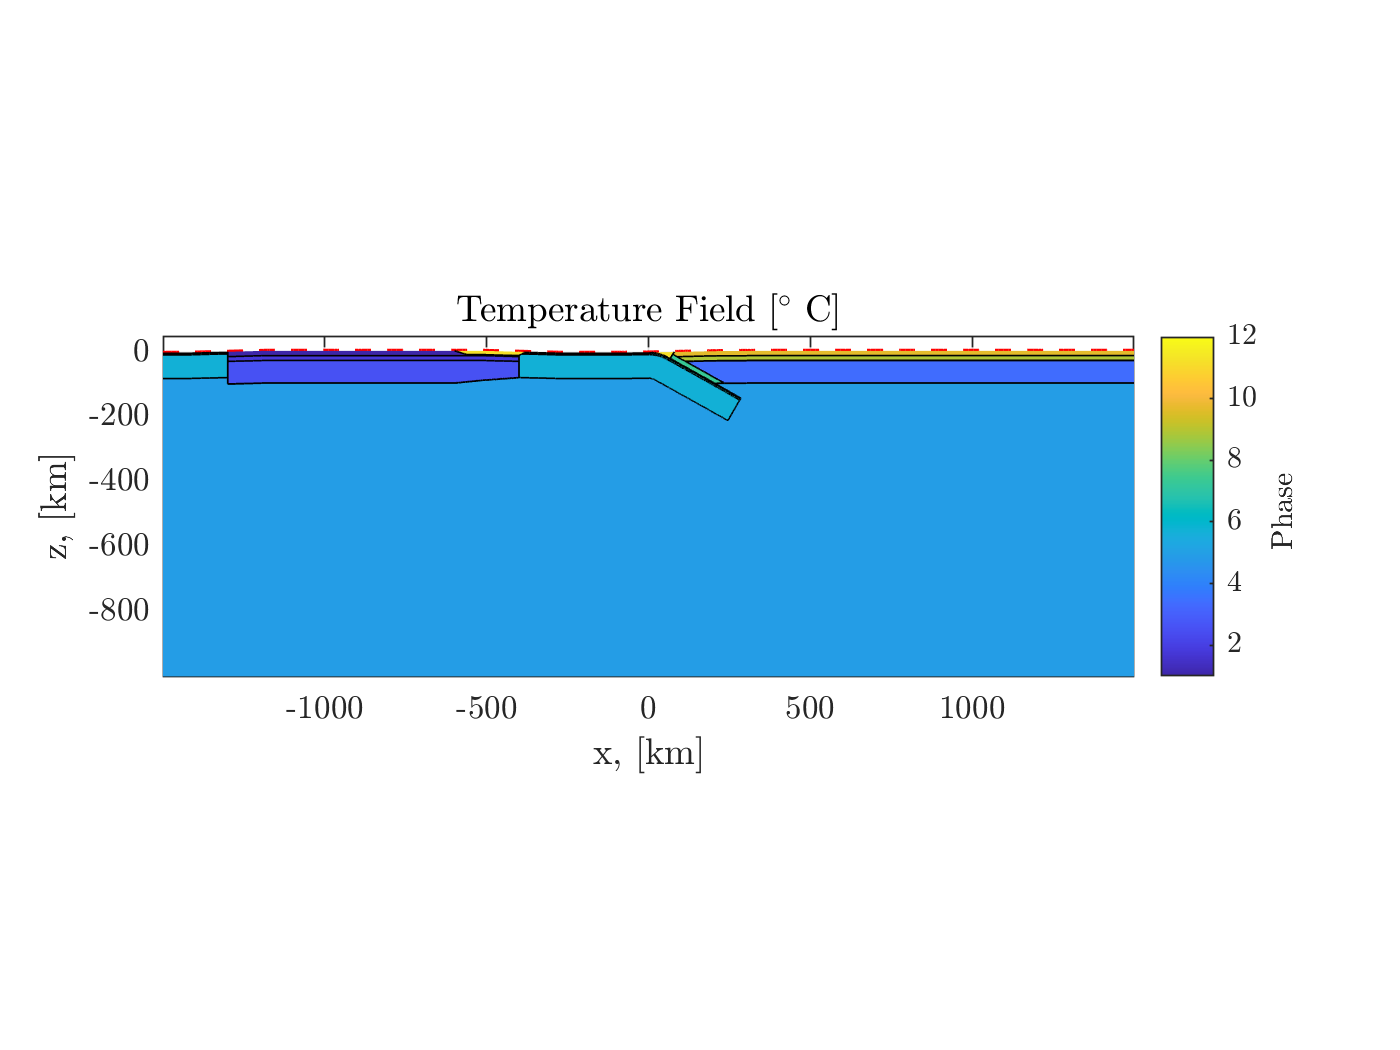
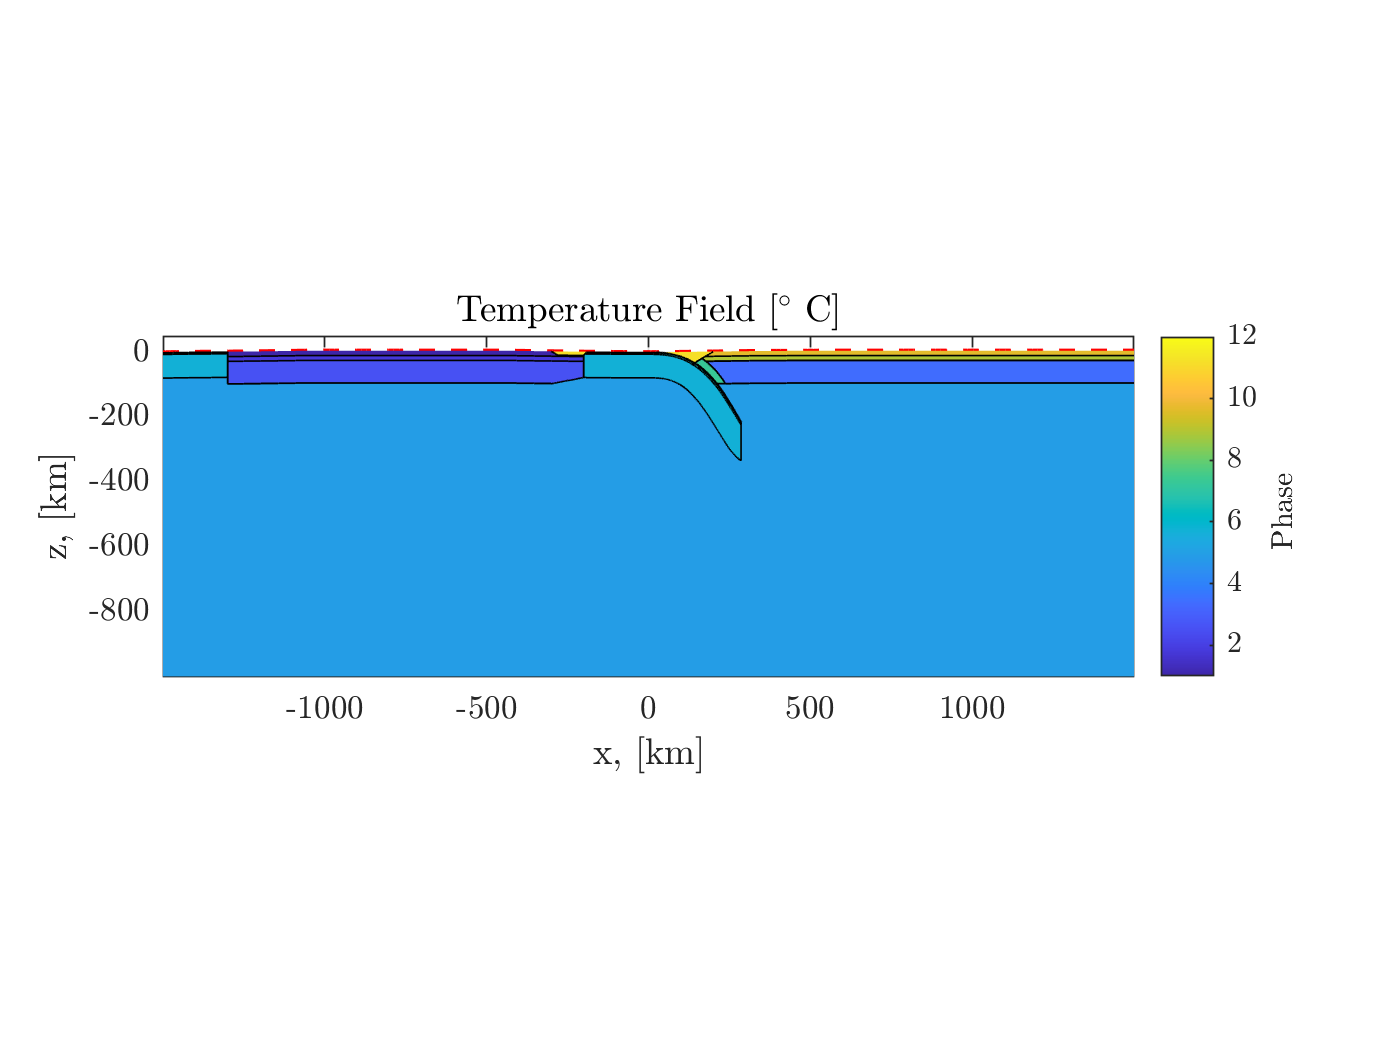
Ribe Slab Geometry Implemented
Ribe slab geometry implemented

Changed region(s): [[0.3379, 0.3352, 0.5529, 0.3962], [0.1229, 0.3352, 0.215, 0.3657]]

diff --git a/Slab_Det_improved.m b/Slab_Det_improved.m
@@ -14,16 +14,17 @@ Parallel_partition     = 'ProcessorPartitioning_8cpu_4.1.2.bin';
 
 
 T.R        = 40;   %curvature radius 
-T.theta_c  = 30;   %curvature radius ingested continental crust
+T.theta_c  = 50;   %curvature radius ingested continental crust
 T.theta_dc = 20;   % additional curvature to emulate passive margin (optional)
-T.theta    = 30;   % curvature slab
-T.tk_WZ    = 15;   % thickness of the weak zone
+T.theta    = 40;   % curvature slab
+T.tk_WZ    = 20;   % thickness of the weak zone
 T.L0       = 300;  % length of the slab from the bottom of the lithosphere
 T.D0       = 80;   % Thickness of the slab
 T.C  = [0.0 -T.D0-T.R]; 
 T.r  = [T.R T.R+T.D0]; 
 T.r_WZ = [T.r(2), T.r(2)+T.tk_WZ];
 T.D_WZ = -100;
+T.Type = 'Ribe_Mode'; % 'Ribe_Mode'
 
 
 phases.Ph_Ar  = [0,10]  ;% Air 
@@ -63,7 +64,7 @@ Buffer.Age          = 5.0;
 %Terranes.Continent1
 Continent1.order = 2; 
 Continent1.Type  = 'Continent';
-Continent1.x_lim = [-1300.0,-400.0];
+Continent1.x_lim = [-1300.0,-200.0];
 Continent1.Phases = [phases.Ph_UC(1),phases.Ph_LC(1),phases.Ph_Clt(1)];
 Continent1.Stratigraphy = [0.0,-15.0,-30.0,-100.0];
 Continent1.Age          = 100.0; 
@@ -82,10 +83,10 @@ Continent2.prism_phase      = phases.Ph_cont_pr;
 %% Oceanic plate 
 Oceanic_Plate.order = 4; 
 Oceanic_Plate.Type  = 'Ocean';
-Oceanic_Plate.x_lim = [-400.0,0.0]; 
+Oceanic_Plate.x_lim = [-200.0,0.0]; 
 Oceanic_Plate.Phases = [phases.Ph_sed_oc(1),phases.Ph_OC(1),phases.Ph_OLt(1)];
 Oceanic_Plate.Stratigraphy = [0.0,-2.0,-7.0,-80.0];
-Oceanic_Plate.Age          = 80.0; 
+Oceanic_Plate.Age          = 50.0; 
 Oceanic_Plate.Trench        = 'Subduction'; 
 Oceanic_Plate.Trench_properties = T;  
 
@@ -167,8 +168,8 @@ function Create_Setup(Terranes,ph,Gen,A,npart,Gr,Parallel_partition)
     A.Temp   = permute(A.Temp, [2 1 3]);
 
     x = squeeze(A.Xpart(:,1,1));
-    y = squeeze(A.Xpart(1,:,1));   
-    z = squeeze(A.Xpart(1,1,:));   
+    y = squeeze(A.Ypart(1,:,1));   
+    z = squeeze(A.Zpart(1,1,:));   
     A.x      =  double(x(:));
     A.y      =  double(y(:));
     A.z      =  double(z(:));
@@ -296,80 +297,154 @@ D0    = abs(Slab.D0);
 ind_z = find(Zvec >= C(2)-Slab.L0 & Zvec<=0.0);
 ind_x = find(Xvec>=C(1) & Xvec <= C(1)+D0*4);
 x     = A.Xpart;
-z     = A.Zpart; 
+z     = A.Zpart;
 theta = Slab.theta;
-ang_  = (theta)*pi/180; 
+ang_  = (theta)*pi/180;
 ang_2 = (theta+90)*pi/180;
-C     = Slab.C; 
-r     = Slab.r; 
+C     = Slab.C;
+r     = Slab.r;
 L0    = Slab.L0 - Slab.R;
 sl    = 1               ;
-if strcmp(type,'Weak')
-    r(1) = r(2); 
-    r(2) = r(2)+Slab.tk_WZ;
-     if Slab.theta == 90
-        sl = 0;
+arc_angleS = []; 
+
+
+
+if strcmp(Slab.Type,'Mode1')
+
+
+    if strcmp(type,'Weak')
+        r(1) = r(2);
+        r(2) = r(2)+Slab.tk_WZ;
+        if Slab.theta == 90
+            sl = 0;
+        end
+        %=============
+
     end
-%=============
-   
-end
-   
- 
- p1    = [C(1)+r(1)*sin(ang_),C(2)+r(1)*cos(ang_)];
- p2    = [C(1)+r(2)*sin(ang_),C(2)+r(2)*cos(ang_)];
- p3    = [p1(1)+L0*sin(ang_2),p1(2)+L0*cos(ang_2)];
- p4    = [p2(1)+L0*sin(ang_2),p2(2)+L0*cos(ang_2)];
 
 
-Px = [p1(1) p2(1) p4(1) p3(1)];
-Pz = [p1(2) p2(2) p4(2) p3(2)];
+    p1    = [C(1)+r(1)*sin(ang_),C(2)+r(1)*cos(ang_)];
+    p2    = [C(1)+r(2)*sin(ang_),C(2)+r(2)*cos(ang_)];
+    p3    = [p1(1)+L0*sin(ang_2),p1(2)+L0*cos(ang_2)];
+    p4    = [p2(1)+L0*sin(ang_2),p2(2)+L0*cos(ang_2)];
 
-[in,out] = inpolygon(x,z,Px,Pz);
-% =========================
-%  P2X           P4X
-%   r2            r2
-%   |             |
-%  P1X           P3X
-%   r1            r1
-%========================
-ls = size(x);
-arc_angleS = ones(size(x))*nan;
-d = ones(size(x))*-1000;
-Layout = ones(size(x))*nan;
 
-for i=1:ls(1)
-    for j=1:length(ind_x)
-        for k=1:length(ind_z)
-           
-            lx = ind_x(j);
-            lz = ind_z(k);
-            u = [x(i,lx,lz);z(i,lx,lz)];
-            v = [C(1);z(i,lx,lz)];
-            a = sqrt(u(1).^2+u(2).^2);
-            b = sqrt(v(1).^2+v(2).^2);
-            %arc_angleS(i,lx,lz) = asin(dot(v,u)./(a.*b)).*180/pi;
-            d(i,lx,lz) = sqrt((u(1)-C(1))^2+(u(2)- C(2))^2); 
-            arc_angleS(i,lx,lz) = acos((z(i,lx,lz)-C(2))/d(i,lx,lz)).*180/pi;
+    Px = [p1(1) p2(1) p4(1) p3(1)];
+    Pz = [p1(2) p2(2) p4(2) p3(2)];
 
-            if (d(i,lx,lz)>=r(1) && d(i,lx,lz)<=r(2)) 
-                if(arc_angleS(i,lx,lz)>=0.0 && arc_angleS(i,lx,lz)<=theta)
-                  
-                    Layout(i,lx,lz) = d(i,lx,lz)-r(2); 
+    [in,out] = inpolygon(x,z,Px,Pz);
+    % =========================
+    %  P2X           P4X
+    %   r2            r2
+    %   |             |
+    %  P1X           P3X
+    %   r1            r1
+    %========================
+    ls = size(x);
+    arc_angleS = ones(size(x))*nan;
+    d = ones(size(x))*-1000;
+    Layout = ones(size(x))*nan;
+
+    for i=1:ls(1)
+        for j=1:length(ind_x)
+            for k=1:length(ind_z)
+
+                lx = ind_x(j);
+                lz = ind_z(k);
+                u = [x(i,lx,lz);z(i,lx,lz)];
+                v = [C(1);z(i,lx,lz)];
+                a = sqrt(u(1).^2+u(2).^2);
+                b = sqrt(v(1).^2+v(2).^2);
+                %arc_angleS(i,lx,lz) = asin(dot(v,u)./(a.*b)).*180/pi;
+                d(i,lx,lz) = sqrt((u(1)-C(1))^2+(u(2)- C(2))^2);
+                arc_angleS(i,lx,lz) = acos((z(i,lx,lz)-C(2))/d(i,lx,lz)).*180/pi;
+
+                if (d(i,lx,lz)>=r(1) && d(i,lx,lz)<=r(2))
+                    if(arc_angleS(i,lx,lz)>=0.0 && arc_angleS(i,lx,lz)<=theta)
+
+                        Layout(i,lx,lz) = d(i,lx,lz)-r(2);
+                    end
                 end
-            end
-            if sl == 1 
-                if(in(i,lx,lz)>0)
-                    P = [x(i,lx,lz);z(i,lx,lz)]; 
-                    Layout(i,lx,lz) = -(find_distance_linear(P,p2,p4));
+                if sl == 1
+                    if(in(i,lx,lz)>0)
+                        P = [x(i,lx,lz);z(i,lx,lz)];
+                        Layout(i,lx,lz) = -(find_distance_linear(P,p2,p4));
+                    end
                 end
             end
         end
     end
-end
-
 
 end
 
+
+if strcmp(Slab.Type,'Ribe_Mode')
+    Layout = ones(size(x))*nan;
+    ind_z = find(Zvec >= C(2)-Slab.L0 & Zvec<=0.0);
+    ind_x = find(Xvec>=C(1) & Xvec <= C(1)+L0+0.1*L0);
+    weak_flag = 0; 
+    
+    if strcmp(type,'Weak')
+        weak_flag = 1; 
+    end
+
+    for ix = 1:length(ind_x)
+        for iz = 1:length(ind_z)
+            lx = ind_x(ix);
+            lz = ind_z(iz);
+            [z_mid,dz,z_top,z_bottom] = compute_ribe_angles(A.Xpart(:,lx,lz),C,theta,Slab.L0,D0,weak_flag,Slab.tk_WZ);
+            if weak_flag == 0 
+                z1 =  z_bottom-0.6*D0;
+                z2 =  z_top   + 0.6*D0;
+            else
+                z1 = z_bottom-D0; 
+                z2 = z_top+ D0; 
+            end
+            if A.Zpart(:,lx,lz)>= z1 & A.Zpart(:,lx,lz)<=z2
+                x_t = (z_mid-A.Zpart(:,lx,lz))./sqrt(1+dz.^2);
+                Layout(:,lx,lz)        =x_t;
+                Layout(:,lx,lz)        = -(x_t+D0/2);
+               
+                if (Layout(:,lx,lz)>0 | Layout(:,lx,lz)<-D0) & weak_flag==0  
+                    Layout(:,lx,lz)        = nan;
+                elseif (Layout(:,lx,lz)<0 |Layout(:,lx,lz)>Slab.tk_WZ) & weak_flag==1
+                    Layout(:,lx,lz)        = nan;
+                end
+     
+
+            end
+        end
+    end
+
+end
+
+end
+function [z,dz,ztop,zbot] = compute_ribe_angles(xp,C,teta_0,L,D0,weak_flag,Tk)
+%=========================================================================%
+% TO DO A complete explanation 
+%=========================================================================%
+teta_0 = teta_0*pi/180;
+
+x = xp-C(1);
+if xp<C(1) | xp>C(1)+L+0.1*L
+    teta_s = nan;
+    z      = nan;
+    dz     = nan;
+    z_bot  = nan;
+    z_top  = nan;
+else
+    teta_s               = teta_0.*x.^2.*((3.*L-2.*x))./(L^3);
+    z                    = -D0/2-tan(teta_s).*x;
+    dz                   = (6.*teta_0.*x.^2.*(x-L).*sec(teta_s).^2)./(L^3)-tan(teta_s);
+    zbot                 = z-D0/2.*cos(teta_s);
+    ztop                 = z+D0/2.*cos(teta_s);
+    if weak_flag == 1
+        zbot                 = z+D0/2.*cos(teta_s);
+        ztop                 = z+(D0/2+Tk).*cos(teta_s);
+    end
+
+end
+end
 
 function [d] = find_distance_linear(P,p1,p2)
 
@@ -500,27 +575,32 @@ indx = A.Xpart >= Terranes.x_lim(1) & A.Xpart < Terranes.x_lim(2);
 end
 
 function [Phase,Temp] = fill_subduction(A,Terranes,Phase,Temp,Gen)
-    ind_x=[];
-    
-    [Layout,~] = find_slab_(A,Terranes.Trench_properties,'Slab');
-    % Set the temperature
-    [Temp] = compute_temperature_profile(Layout,Temp,-1,Gen,Terranes,ind_x);%(A,Temp,Type,T_tk,Gen,Terranes,indx)
-    % Correct Temperaure and Phase
-    id1 = min(A.Xpart(~isnan(Layout)));
-    id2 = max(A.Xpart(~isnan(Layout)));
-    id3 = min(A.Zpart(~isnan(Layout)));
-    ind_x1 = find(squeeze(A.Xpart(1,:,1))>=id1,1);
-    ind_x2 = find(squeeze(A.Xpart(1,:,1))>=id2,1);
-    ind_z1 = find(squeeze(A.Zpart(1,1,:))>=id3,1);
-    for i= ind_x1:ind_x2
-        ind_L = find((Layout(1,i,:)==min(Layout(1,i,:))),1);
-        Phase(:,i,ind_z1:ind_L) = Gen.Ph_Air;
-        Temp(:,i,ind_z1:ind_L) = Gen.T_P;
-    end
-    [Phase] = fill_stratigraphy(Layout,Phase,Terranes,ind_x);
-    [Layout,~] = find_slab_(A,Terranes.Trench_properties,'Weak');
+ind_x=[];
+
+[Layout,~] = find_slab_(A,Terranes.Trench_properties,'Slab');
+% Set the temperature
+[Temp] = compute_temperature_profile(Layout,Temp,-1,Gen,Terranes,ind_x);%(A,Temp,Type,T_tk,Gen,Terranes,indx)
+% Correct Temperaure and Phase
+id1 = min(A.Xpart(~isnan(Layout)));
+id2 = max(A.Xpart(~isnan(Layout)));
+id3 = min(A.Zpart(~isnan(Layout)));
+ind_x1 = find(squeeze(A.Xpart(1,:,1))>=id1,1);
+ind_x2 = find(squeeze(A.Xpart(1,:,1))>=id2,1);
+ind_z1 = find(squeeze(A.Zpart(1,1,:))>=id3,1);
+for i= ind_x1:ind_x2
+    ind_L = find((Layout(1,i,:)==min(Layout(1,i,:))),1);
+    Phase(:,i,ind_z1:ind_L) = Gen.Ph_Air;
+    Temp(:,i,ind_z1:ind_L) = Gen.T_P;
+end
+[Phase] = fill_stratigraphy(Layout,Phase,Terranes,ind_x);
+[Layout,~] = find_slab_(A,Terranes.Trench_properties,'Weak');
+if strcmp( Terranes.Trench_properties,'Mode_1')
     ind =(Layout<=0.0 & A.Zpart >= Terranes.Trench_properties.D_WZ & Phase ~=Gen.PrismPh);
     Phase(ind) = Gen.WZ;
+else
+    ind =(Layout>0.0 & A.Zpart >= Terranes.Trench_properties.D_WZ & Phase ~=Gen.PrismPh & A.Zpart<0.0);
+    Phase(ind) = Gen.WZ;
+end
 end
 
 

diff --git a/Terrane.m b/Terrane.m
@@ -13,12 +13,12 @@ classdef Terrane
         Passive_Margin_phase           
         Passive_Margin_depo_center     = 12;
         Passive_Margin_depo_center_pos = 0.2; 
-        Passive_Margin_length          = 200; 
+        Passive_Margin_length          = 100; 
         Passive_Margin_d_lithos        = 20; 
         Trench                         ='none';
         Trench_properties              = [];
         Accretion_prism                = 'none';
-        position_end_prism             = 80; 
+        position_end_prism             = 200; 
         prism_phase                     
         secMyrsyear                    = 365.25*60*60*24*1e6;
         Cp                             = 1050; 
